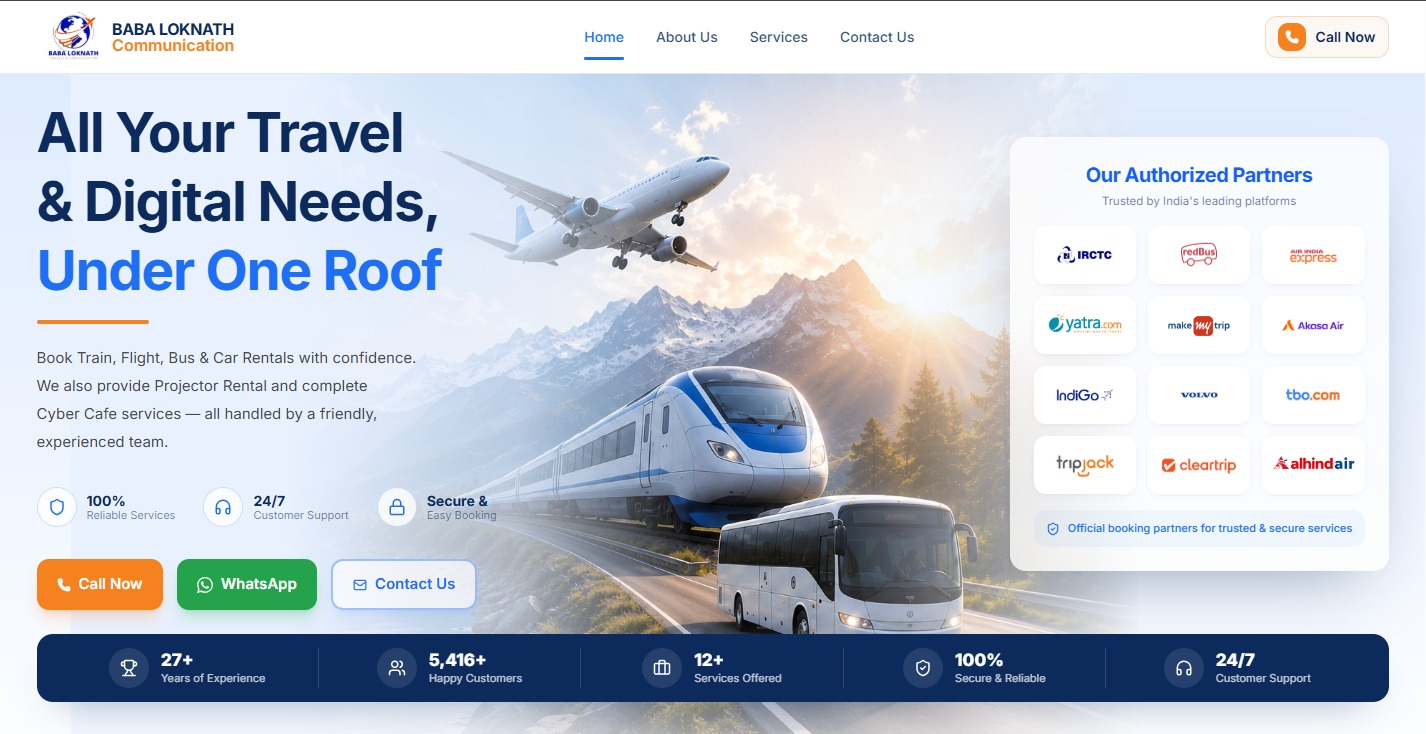
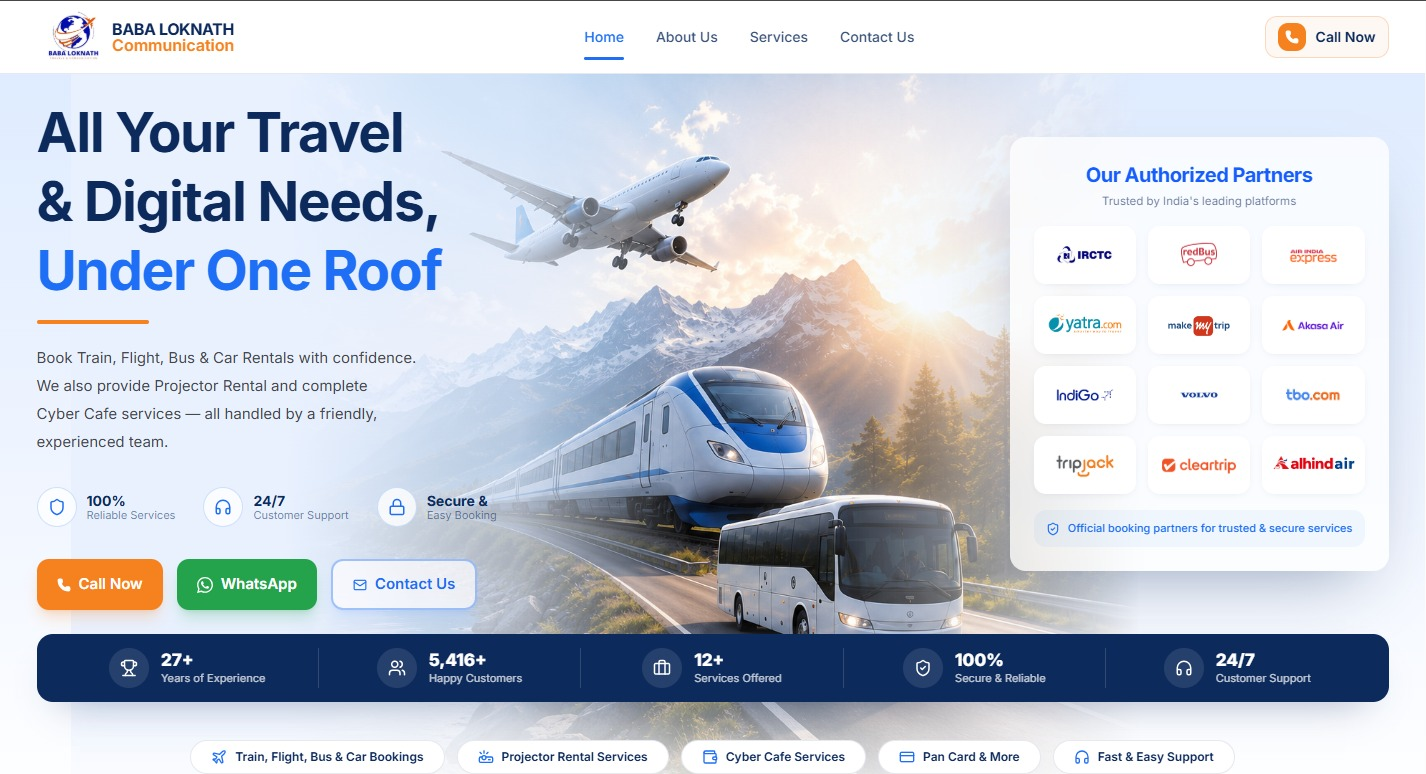
feat: Add ScrollToTop, dynamic project numbers, and fix music player

diff --git a/src/components/Projects.tsx b/src/components/Projects.tsx
@@ -3,7 +3,6 @@ import { ExternalLink, ArrowRight } from 'lucide-react';
 import { FaGithub } from 'react-icons/fa';
 
 type ProjectType = {
-  id: string;
   title: string;
   description: string;
   type: string;
@@ -20,9 +19,8 @@ type ProjectType = {
 
 const projects: ProjectType[] = [
   {
-    id: '01',
     title: 'Bengal Taxi',
-    description: 'A production-ready business website with modern UI and SEO optimization, built to drive real customer engagement and bookings.',
+    description: 'Modern cab booking platform for Bengal Taxi, designed to simplify bookings and enhance customer experience.',
     type: 'Production Website',
     features: ['Responsive', 'SEO Ready', 'Modern UI', 'Business Website', 'Production Deployment'],
     image: '/projects/tastybite-brandboard.png',
@@ -31,9 +29,8 @@ const projects: ProjectType[] = [
     }
   },
   {
-    id: '02',
     title: 'Baba Loknath Communication',
-    description: 'A comprehensive travel and digital services platform offering ticket bookings and cyber cafe services under one roof.',
+    description: 'A production-ready website for Baba Loknath Communication, offering travel bookings and digital services.',
     type: 'Production Website',
     features: ['Travel Bookings', 'Digital Services', 'Modern UI', 'Responsive Design'],
     image: '/projects/baba-loknath.png',
@@ -42,7 +39,6 @@ const projects: ProjectType[] = [
     }
   },
   {
-    id: '03',
     title: 'Plan My Tour ERP',
     description: 'Comprehensive travel management and payment tracking system designed to streamline operations for travel agencies.',
     type: 'Travel Management & Payment System',
@@ -72,98 +68,101 @@ export default function Projects() {
         </motion.div>
 
         <div className="space-y-16">
-          {projects.map((project, index) => (
-            <motion.div
-              key={project.id}
-              initial={{ opacity: 0, y: 40 }}
-              whileInView={{ opacity: 1, y: 0 }}
-              viewport={{ once: true, margin: "-100px" }}
-              transition={{ duration: 0.7 }}
-              className={`flex flex-col ${index % 2 === 1 ? 'lg:flex-row-reverse' : 'lg:flex-row'} gap-10 lg:gap-16 items-center`}
-            >
-              {/* Image side */}
-              <div className="flex-1 w-full relative">
-                <div className="absolute -top-10 -left-6 text-[9rem] font-extrabold text-[#E5DFD3] -z-10 leading-none font-heading opacity-50 select-none">
-                  {project.id}
-                </div>
-                <div className="retro-card overflow-hidden p-2 bg-white group w-full aspect-video">
-                  <div className="w-full h-full rounded-xl overflow-hidden border-2 border-[#111111] relative">
-                    <img
-                      src={project.image}
-                      alt={project.title}
-                      className="w-full h-full object-cover transform group-hover:scale-105 transition-transform duration-700 ease-out"
-                      onError={(e) => {
-                        e.currentTarget.style.display = 'none';
-                      }}
-                    />
-                    <div className="absolute inset-0 flex items-center justify-center -z-10 bg-[#FCFAF7]">
-                      <span className="font-heading font-bold text-xl text-[#111111]">Project Image</span>
+          {projects.map((project, index) => {
+            const projectNumber = String(index + 1).padStart(2, '0');
+            return (
+              <motion.div
+                key={projectNumber}
+                initial={{ opacity: 0, y: 40 }}
+                whileInView={{ opacity: 1, y: 0 }}
+                viewport={{ once: true, margin: "-100px" }}
+                transition={{ duration: 0.7 }}
+                className={`flex flex-col ${index % 2 === 1 ? 'lg:flex-row-reverse' : 'lg:flex-row'} gap-10 lg:gap-16 items-center`}
+              >
+                {/* Image side */}
+                <div className="flex-1 w-full relative">
+                  <div className="absolute -top-10 -left-6 text-[9rem] font-extrabold text-[#E5DFD3] -z-10 leading-none font-heading opacity-50 select-none">
+                    {projectNumber}
+                  </div>
+                  <div className="retro-card overflow-hidden p-2 bg-white group w-full aspect-video">
+                    <div className="w-full h-full rounded-xl overflow-hidden border-2 border-[#111111] relative">
+                      <img
+                        src={project.image}
+                        alt={project.title}
+                        className="w-full h-full object-cover transform group-hover:scale-105 transition-transform duration-700 ease-out"
+                        onError={(e) => {
+                          e.currentTarget.style.display = 'none';
+                        }}
+                      />
+                      <div className="absolute inset-0 flex items-center justify-center -z-10 bg-[#FCFAF7]">
+                        <span className="font-heading font-bold text-xl text-[#111111]">Project Image</span>
+                      </div>
                     </div>
                   </div>
                 </div>
-              </div>
 
-              {/* Content side */}
-              <div className="flex-1 flex flex-col justify-center relative z-10">
-                <h3 className="text-3xl md:text-4xl font-extrabold mb-1 font-heading text-[#111111]">{project.title}</h3>
-                <div className="text-lg text-[#86A789] font-bold mb-3">{project.type}</div>
+                {/* Content side */}
+                <div className="flex-1 flex flex-col justify-center relative z-10">
+                  <h3 className="text-3xl md:text-4xl font-extrabold mb-1 font-heading text-[#111111]">{project.title}</h3>
+                  <div className="text-lg text-[#86A789] font-bold mb-3">{project.type}</div>
 
-                {project.status && (
-                  <div className="inline-flex items-center gap-2 px-3 py-1 rounded-full border-2 border-[#111111] bg-[#D8B54B] text-[#111111] text-xs font-bold mb-3 w-fit shadow-[2px_2px_0_#111111]">
-                    <span className="w-2 h-2 rounded-full bg-white animate-pulse border border-[#111111]" />
-                    {project.status}
-                  </div>
-                )}
+                  {project.status && (
+                    <div className="inline-flex items-center gap-2 px-3 py-1 rounded-full border-2 border-[#111111] bg-[#D8B54B] text-[#111111] text-xs font-bold mb-3 w-fit shadow-[2px_2px_0_#111111]">
+                      <span className="w-2 h-2 rounded-full bg-white animate-pulse border border-[#111111]" />
+                      {project.status}
+                    </div>
+                  )}
 
-                <p className="text-[#2D2D2D] text-base font-medium mb-4 leading-relaxed">
-                  {project.description}
-                </p>
+                  <p className="text-[#2D2D2D] text-base font-medium mb-4 leading-relaxed">
+                    {project.description}
+                  </p>
 
-                {project.tech && (
-                  <div className="mb-4">
-                    <div className="text-xs text-[#111111] font-bold uppercase tracking-wider mb-2">Tech Stack</div>
-                    <div className="flex flex-wrap gap-2">
-                      {project.tech.map(t => (
-                        <span key={t} className="px-3 py-1 bg-white border-2 border-[#111111] rounded-lg text-xs font-bold text-[#111111] shadow-[2px_2px_0_#111111]">
-                          {t}
-                        </span>
+                  {project.tech && (
+                    <div className="mb-4">
+                      <div className="text-xs text-[#111111] font-bold uppercase tracking-wider mb-2">Tech Stack</div>
+                      <div className="flex flex-wrap gap-2">
+                        {project.tech.map(t => (
+                          <span key={t} className="px-3 py-1 bg-white border-2 border-[#111111] rounded-lg text-xs font-bold text-[#111111] shadow-[2px_2px_0_#111111]">
+                            {t}
+                          </span>
+                        ))}
+                      </div>
+                    </div>
+                  )}
+
+                  <div className="mb-5">
+                    <div className="text-xs text-[#111111] font-bold uppercase tracking-wider mb-2">Key Features</div>
+                    <ul className="grid grid-cols-2 gap-y-1.5 gap-x-4">
+                      {project.features.map(f => (
+                        <li key={f} className="flex items-center gap-2 text-[#2D2D2D] text-sm font-medium">
+                          <div className="w-1.5 h-1.5 rounded-full bg-[#111111] shrink-0" />
+                          {f}
+                        </li>
                       ))}
-                    </div>
+                    </ul>
                   </div>
-                )}
 
-                <div className="mb-5">
-                  <div className="text-xs text-[#111111] font-bold uppercase tracking-wider mb-2">Key Features</div>
-                  <ul className="grid grid-cols-2 gap-y-1.5 gap-x-4">
-                    {project.features.map(f => (
-                      <li key={f} className="flex items-center gap-2 text-[#2D2D2D] text-sm font-medium">
-                        <div className="w-1.5 h-1.5 rounded-full bg-[#111111] shrink-0" />
-                        {f}
-                      </li>
-                    ))}
-                  </ul>
+                  <div className="flex flex-wrap gap-3">
+                    {project.links.live && (
+                      <a href={project.links.live} className="retro-btn bg-[#111111] text-white px-5 py-2.5 text-sm hover:-translate-y-1 hover:shadow-[4px_4px_0_#86A789] shadow-[2px_2px_0_#111111] gap-2">
+                        Live Website <ExternalLink size={15} />
+                      </a>
+                    )}
+                    {project.links.github && (
+                      <a href={project.links.github} className="retro-btn bg-white text-[#111111] px-5 py-2.5 text-sm hover:-translate-y-1 hover:shadow-[4px_4px_0_#111111] shadow-[2px_2px_0_#111111] gap-2">
+                        GitHub <FaGithub size={15} />
+                      </a>
+                    )}
+                    {project.links.details && (
+                      <a href={project.links.details} className="retro-btn bg-[#111111] text-white px-5 py-2.5 text-sm hover:-translate-y-1 hover:shadow-[4px_4px_0_#86A789] shadow-[2px_2px_0_#111111] gap-2">
+                        View Details <ArrowRight size={15} />
+                      </a>
+                    )}
+                  </div>
                 </div>
-
-                <div className="flex flex-wrap gap-3">
-                  {project.links.live && (
-                    <a href={project.links.live} className="retro-btn bg-[#111111] text-white px-5 py-2.5 text-sm hover:-translate-y-1 hover:shadow-[4px_4px_0_#86A789] shadow-[2px_2px_0_#111111] gap-2">
-                      Live Website <ExternalLink size={15} />
-                    </a>
-                  )}
-                  {project.links.github && (
-                    <a href={project.links.github} className="retro-btn bg-white text-[#111111] px-5 py-2.5 text-sm hover:-translate-y-1 hover:shadow-[4px_4px_0_#111111] shadow-[2px_2px_0_#111111] gap-2">
-                      GitHub <FaGithub size={15} />
-                    </a>
-                  )}
-                  {project.links.details && (
-                    <a href={project.links.details} className="retro-btn bg-[#111111] text-white px-5 py-2.5 text-sm hover:-translate-y-1 hover:shadow-[4px_4px_0_#86A789] shadow-[2px_2px_0_#111111] gap-2">
-                      View Details <ArrowRight size={15} />
-                    </a>
-                  )}
-                </div>
-              </div>
-            </motion.div>
-          ))}
+              </motion.div>
+            );
+          })}
 
           {/* Coming Soon Project */}
           <motion.div
@@ -174,7 +173,7 @@ export default function Projects() {
             className="retro-card p-10 text-center relative overflow-hidden border-dashed"
           >
             <div className="relative z-10 flex flex-col items-center">
-              <div className="text-2xl font-bold text-[#86A789] mb-3 font-heading">Project 03</div>
+              <div className="text-2xl font-bold text-[#86A789] mb-3 font-heading">Project {String(projects.length + 1).padStart(2, '0')}</div>
               <h3 className="text-3xl md:text-4xl font-extrabold mb-4 text-[#111111] font-heading">Future Product</h3>
               <div className="inline-block px-4 py-1.5 border-2 border-[#111111] rounded-full font-bold text-[#111111] text-sm bg-[#D8B54B] shadow-[2px_2px_0_#111111] rotate-[-2deg]">
                 Coming Soon

diff --git a/src/components/ScrollToTop.tsx b/src/components/ScrollToTop.tsx
@@ -1,0 +1,42 @@
+import { useState, useEffect } from 'react';
+import { motion, AnimatePresence } from 'framer-motion';
+import { ArrowUp } from 'lucide-react';
+
+export default function ScrollToTop() {
+  const [isVisible, setIsVisible] = useState(false);
+
+  useEffect(() => {
+    const toggleVisibility = () => {
+      setIsVisible(window.scrollY > 400);
+    };
+
+    window.addEventListener('scroll', toggleVisibility);
+    return () => window.removeEventListener('scroll', toggleVisibility);
+  }, []);
+
+  const scrollToTop = () => {
+    window.scrollTo({ top: 0, behavior: 'smooth' });
+  };
+
+  return (
+    <AnimatePresence>
+      {isVisible && (
+        <motion.button
+          initial={{ opacity: 0, scale: 0.5, y: 20 }}
+          animate={{ opacity: 1, scale: 1, y: 0 }}
+          exit={{ opacity: 0, scale: 0.5, y: 20 }}
+          transition={{ duration: 0.3, ease: 'easeOut' }}
+          onClick={scrollToTop}
+          className="fixed bottom-3 md:bottom-6 right-2 z-50 w-12 h-12 flex items-center justify-center
+            bg-[#111111] text-white border-2 border-[#111111] rounded-xl
+            shadow-[3px_3px_0_#86A789] hover:shadow-[4px_4px_0_#86A789]
+            hover:-translate-y-1 active:translate-y-0 active:shadow-[1px_1px_0_#86A789]
+            transition-all duration-200 cursor-pointer font-heading"
+          aria-label="Scroll to top"
+        >
+          <ArrowUp size={22} strokeWidth={2.5} />
+        </motion.button>
+      )}
+    </AnimatePresence>
+  );
+}

diff --git a/src/components/Music.tsx b/src/components/Music.tsx
@@ -259,8 +259,9 @@ function SongCard({ song, index }: { song: CoverSong; index: number }) {
     };
   }, [song.audioSrc]);
 
-  const togglePlay = useCallback((e: React.MouseEvent | React.TouchEvent) => {
+  const togglePlay = useCallback((e: React.MouseEvent) => {
     e.stopPropagation();
+    e.preventDefault();
     const audio = audioRef.current;
     if (!audio) return;
 
@@ -328,7 +329,6 @@ function SongCard({ song, index }: { song: CoverSong; index: number }) {
       <div
         className="relative w-full p-3 pb-2 bg-[#EEEBE2] cursor-pointer select-none"
         onClick={togglePlay}
-        onTouchEnd={togglePlay}
         role="button"
         aria-label={isPlaying ? `Pause ${song.title}` : `Play ${song.title}`}
       >
@@ -392,7 +392,6 @@ function SongCard({ song, index }: { song: CoverSong; index: number }) {
           {/* Play/pause icon badge */}
           <button
             onClick={togglePlay}
-            onTouchEnd={togglePlay}
             className="shrink-0 w-9 h-9 rounded-xl bg-[#9CAF88]/15 border border-[#9CAF88]/30 flex items-center justify-center hover:bg-[#9CAF88]/30 transition-colors"
             aria-label={isPlaying ? 'Pause' : 'Play'}
           >

diff --git a/src/App.tsx b/src/App.tsx
@@ -10,6 +10,7 @@ import Services from './components/Services';
 import CurrentlyBuilding from './components/CurrentlyBuilding';
 import Contact from './components/Contact';
 import Footer from './components/Footer';
+import ScrollToTop from './components/ScrollToTop';
 
 function App() {
   return (
@@ -30,6 +31,7 @@ function App() {
       </main>
 
       <Footer />
+      <ScrollToTop />
     </div>
   );
 }
